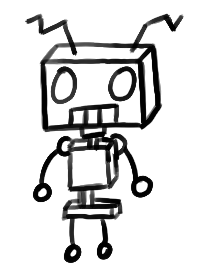
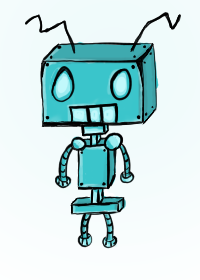
new art

diff --git a/src/scenes/GameOver.js b/src/scenes/GameOver.js
@@ -20,10 +20,12 @@ class GameOver extends Phaser.Scene {
 
     update() {
         if (Phaser.Input.Keyboard.JustDown(keyLEFT)) {
+            this.sound.stopAll();
             this.sound.play('transition_sound');
             this.scene.start('mainMenuScene');
         }
         if (Phaser.Input.Keyboard.JustDown(keyRIGHT)) {
+            this.sound.stopAll();
             this.sound.play('transition_sound');
             this.scene.start('gamePlayScene');
         }

diff --git a/src/scenes/MainMenu.js b/src/scenes/MainMenu.js
@@ -16,6 +16,7 @@ class MainMenu extends Phaser.Scene {
         this.load.image('robotTwo', 'img/robotTwo.png');
         this.load.image('menu_screen', 'img/menu_screen.png');
         this.load.image('ending_screen', 'img/ending_screen.png');
+        this.load.image('gamePlay_background', 'img/gamePlay_background.png');
 
         // load audio
         this.load.audio('transition_sound', 'audio/transition_sound.wav');

diff --git a/src/scenes/GamePlay.js b/src/scenes/GamePlay.js
@@ -37,6 +37,8 @@ class GamePlay extends Phaser.Scene {
     }
 
     create() {
+
+        this.add.tileSprite(0, 0, 840, 600, 'gamePlay_background').setOrigin(0, 0);
         
         // parse dialog from JSON file
         this.dialog = this.cache.json.get('dialog');
